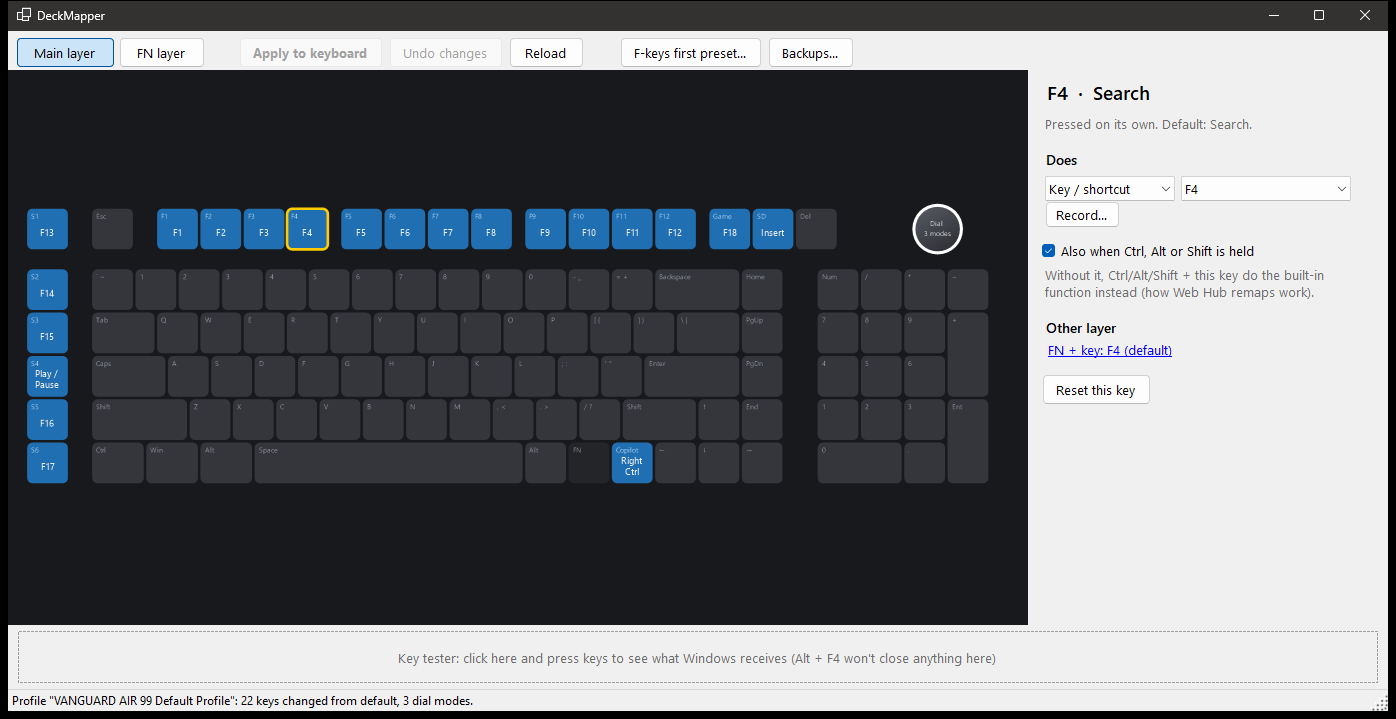
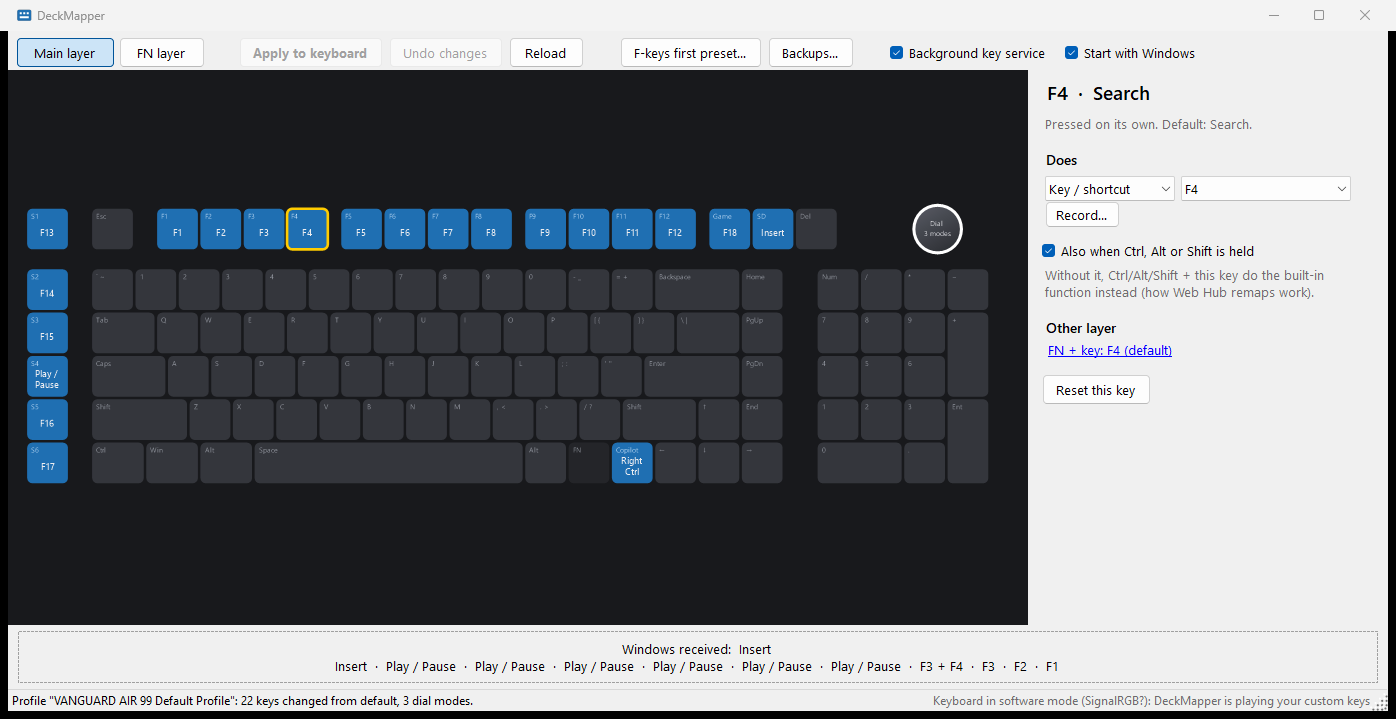
DeckMapper 1.1.0: release notes and a screenshot with the background key service

Changed region(s): [[0.0, 0.0, 1.0, 0.0918], [0.2464, 0.8873, 0.9857, 0.9791]]

diff --git a/docs/release-notes/v1.1.0.md b/docs/release-notes/v1.1.0.md
@@ -1,0 +1,42 @@
+**Your custom keys and SignalRGB's live lighting, at the same time.**
+
+![DeckMapper 1.1.0](https://raw.githubusercontent.com/yourgirljolyne/Deckmapper/main/docs/images/deckmapper.png)
+
+## The problem
+
+For clean live lighting, SignalRGB puts the keyboard in software mode. In software mode the keyboard stops running your remaps and macros itself. Remapped keys go quiet, and the keyboard hands every key press to the PC instead, expecting software to do the rest. That's how iCUE works. Without iCUE, your custom keys simply stopped working while SignalRGB ran.
+
+## The fix: Background key service
+
+DeckMapper now does iCUE's part. Tick **Background key service** at the top of the window and it plays your assignments whenever the keyboard is in software mode:
+
+- **Remapped keys**, held for as long as you hold them, so Alt + F4 and friends behave normally.
+- **The FN layer, media keys and mouse buttons.**
+- **Macros**, both play once and while held.
+
+When the keyboard runs your keys itself, the service does nothing, so nothing ever fires twice.
+
+It runs quietly in the background: no window and no tray icon, also after you close DeckMapper. Start DeckMapper again to open the window, or untick the box to stop it. **Start with Windows** starts just the service when you sign in.
+
+## Pairs with the SignalRGB plugin
+
+The [SignalRGB plugin for the Air 99](https://github.com/yourgirljolyne/signalrgb-vanguard-air-99) has a new **Custom keys** setting:
+
+- **Played by DeckMapper (clean lighting)**, the default, for use with this service.
+- **Kept by the keyboard**, if you'd rather not run DeckMapper. Your keys work, but the keyboard's own stored lighting shows through SignalRGB's.
+
+## Get it running
+
+1. Download **DeckMapper.exe** below.
+2. Install the [.NET 10 Desktop Runtime](https://dotnet.microsoft.com/download/dotnet/10.0) if you don't have it.
+3. Plug the keyboard in with the **USB cable**.
+4. Run it, tick **Background key service** (and **Start with Windows** if you like).
+
+## Good to know
+
+- Custom dial actions aren't played by the service yet. The dial doesn't show up in the keyboard's key reports, so it needs its own work.
+- Everything else from 1.0.0 is unchanged: main and FN layers, macros, the dial editor, the key tester and backups.
+
+Nerdy details: [docs/key-assignment-protocol.md](https://github.com/yourgirljolyne/Deckmapper/blob/main/docs/key-assignment-protocol.md)
+
+> Not affiliated with or endorsed by Corsair. Use at your own risk.
